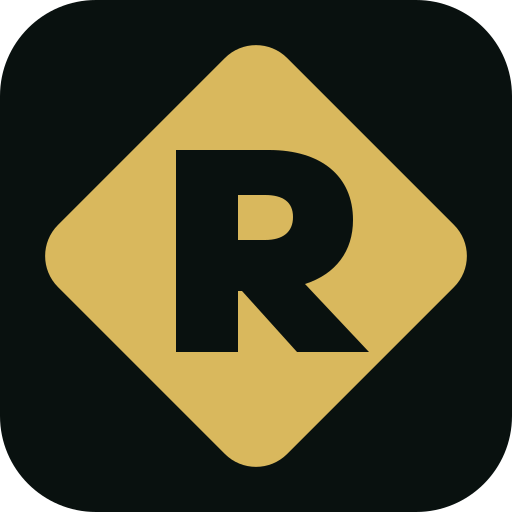
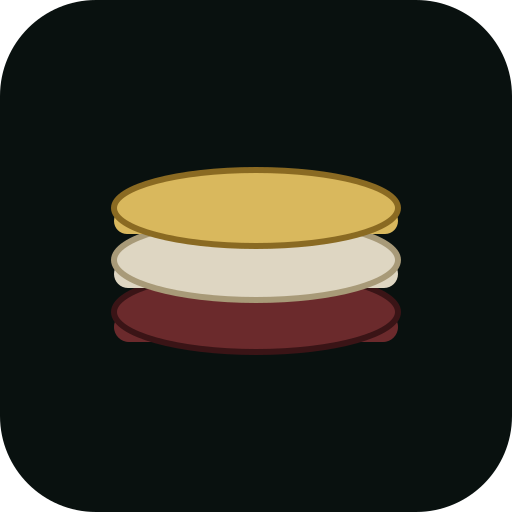
Rebrand River Room to StackChips for the www.stackchips.app launch
Renames the product everywhere it's user-facing: page titles, the
account-entry and in-app headers, the manifest, legal document text,
Stripe-facing notices, and doc comments. Replaces the diamond "R"
monogram (a bare CSS/JSX letter, not the favicon file) with "S" in the
four places it appeared -- app header, account-entry mark, admin brand
mark, and the face-down card-back emblem.

New icon.svg: a three-tier poker-chip stack in the existing brand
palette, replacing the old card-suit glyph. Regenerated icon-192.png,
icon-512.png, and apple-icon.png from it.

lib/auth/oauth-redirect.ts's PRODUCTION_SITE_ORIGIN now points at
https://www.stackchips.app -- the domain and Supabase site_url/
allow-list were already configured by the time this landed, confirmed
live before this change shipped.

Internal-only identifiers (river_session cookie name, the table-manager
module's file/function names) are deliberately untouched -- renaming
those is pure churn with no user-facing effect, and the cookie name
specifically would invalidate every existing session.

diff --git a/lib/auth/oauth-redirect.test.ts b/lib/auth/oauth-redirect.test.ts
@@ -9,20 +9,20 @@ describe("oauthCallbackUrl", () => {
   it("uses the canonical production URL during server-side execution", () => {
     vi.stubEnv("NEXT_PUBLIC_SITE_URL", "https://vercel.app/");
 
-    expect(oauthSiteOrigin(undefined)).toBe("https://poker-navy-six.vercel.app");
+    expect(oauthSiteOrigin(undefined)).toBe("https://www.stackchips.app");
     expect(oauthCallbackUrl()).toBe(
-      "https://poker-navy-six.vercel.app/auth/callback",
+      "https://www.stackchips.app/auth/callback",
     );
   });
 
   it("pins deployed callbacks to the canonical production origin", () => {
     vi.stubEnv("NEXT_PUBLIC_SITE_URL", "https://wrong-host.example/");
 
-    expect(oauthSiteOrigin("https://poker-preview.vercel.app")).toBe(
-      "https://poker-navy-six.vercel.app",
+    expect(oauthSiteOrigin("https://preview.stackchips.app")).toBe(
+      "https://www.stackchips.app",
     );
-    expect(oauthCallbackUrl(oauthSiteOrigin("https://poker-preview.vercel.app"))).toBe(
-      "https://poker-navy-six.vercel.app/auth/callback",
+    expect(oauthCallbackUrl(oauthSiteOrigin("https://preview.stackchips.app"))).toBe(
+      "https://www.stackchips.app/auth/callback",
     );
   });
 
@@ -36,15 +36,15 @@ describe("oauthCallbackUrl", () => {
   it("does not let a stale production environment value force localhost", () => {
     vi.stubEnv("NEXT_PUBLIC_SITE_URL", "http://localhost:3000");
 
-    expect(oauthSiteOrigin("https://poker-navy-six.vercel.app")).toBe(
-      "https://poker-navy-six.vercel.app",
+    expect(oauthSiteOrigin("https://www.stackchips.app")).toBe(
+      "https://www.stackchips.app",
     );
-    expect(oauthSiteOrigin(undefined)).toBe("https://poker-navy-six.vercel.app");
+    expect(oauthSiteOrigin(undefined)).toBe("https://www.stackchips.app");
   });
 
   it("never carries a poker route or query into the OAuth callback", () => {
-    expect(oauthCallbackUrl("https://poker-navy-six.vercel.app/table?code=RIVER")).toBe(
-      "https://poker-navy-six.vercel.app/auth/callback",
+    expect(oauthCallbackUrl("https://www.stackchips.app/table?code=RIVER")).toBe(
+      "https://www.stackchips.app/auth/callback",
     );
   });
 

diff --git a/lib/legal/documents.ts b/lib/legal/documents.ts
@@ -39,9 +39,9 @@ export const LEGAL_DOCUMENTS: Record<LegalDocumentSlug, LegalDocument> = {
     version: 1,
     title: "Terms of Service",
     body: [
-      "River Room is a free-to-play social poker game played with Gold, an in-app entertainment currency. Nothing in River Room is real-money gambling: no hand you play, and no amount of Gold you hold, wins, buys, or can be exchanged for real money, cryptocurrency, or any prize of monetary value.",
+      "StackChips is a free-to-play social poker game played with Gold, an in-app entertainment currency. Nothing in StackChips is real-money gambling: no hand you play, and no amount of Gold you hold, wins, buys, or can be exchanged for real money, cryptocurrency, or any prize of monetary value.",
       "You must be at least 18 years old, or the age of majority where you live if that is higher, to play. By continuing you confirm you meet that requirement.",
-      "Your Gold balance, table history, and cosmetics belong to your River Room profile and have no value outside the app. We can suspend or terminate a profile that cheats, abuses other players, colludes, or attempts to convert Gold into anything of real-world value.",
+      "Your Gold balance, table history, and cosmetics belong to your StackChips profile and have no value outside the app. We can suspend or terminate a profile that cheats, abuses other players, colludes, or attempts to convert Gold into anything of real-world value.",
       "We may change these Terms as the game changes. Continuing to play after a change takes effect means you accept the current version; if you were asked to accept again, it is because something material changed.",
     ],
   },

diff --git a/components/poker-app.tsx b/components/poker-app.tsx
@@ -720,7 +720,7 @@ export function PokerApp() {
       const { error: signInError } = await client.auth.signInWithOAuth({
         provider: "google",
         options: {
-          // Production is pinned to the canonical River Room origin; a
+          // Production is pinned to the canonical StackChips origin; a
           // loopback callback is used only when this browser is genuinely
           // running the local app. The dedicated path also keeps the OAuth
           // `code` parameter separate from poker room invite codes.
@@ -849,8 +849,8 @@ export function PokerApp() {
       {!game && (
         <header className="lobby-header">
           <div className="wordmark">
-            <span className="mark">R</span>
-            <span>River Room<small>NO LIMIT HOLD’EM</small></span>
+            <span className="mark">S</span>
+            <span>StackChips<small>NO LIMIT HOLD’EM</small></span>
           </div>
           <div className="header-actions">
             <div className="header-status">No-limit Hold’em · 6-max</div>

diff --git a/lib/auth/oauth-redirect.ts b/lib/auth/oauth-redirect.ts
@@ -1,5 +1,5 @@
 export const OAUTH_CALLBACK_PATH = "/auth/callback";
-export const PRODUCTION_SITE_ORIGIN = "https://poker-navy-six.vercel.app";
+export const PRODUCTION_SITE_ORIGIN = "https://www.stackchips.app";
 
 function normalizedHttpOrigin(origin: string): string {
   const parsedOrigin = new URL(origin);
@@ -19,7 +19,7 @@ function isLocalDevelopmentOrigin(origin: string): boolean {
 }
 
 /**
- * Production sign-in must always return to the canonical River Room host.
+ * Production sign-in must always return to the canonical StackChips host.
  *
  * A stale/mistyped Vercel NEXT_PUBLIC_SITE_URL must never be allowed to send a
  * production OAuth exchange to localhost. Localhost remains supported only

diff --git a/app/auth/callback/route.ts b/app/auth/callback/route.ts
@@ -66,7 +66,7 @@ export async function GET(request: NextRequest) {
     // exchangeCodeForSession already wrote the Supabase auth cookies via
     // cookies() (next/headers), which a Route Handler applies to the
     // response regardless of which NextResponse instance is returned.
-    // Only River Room's own gameplay-identity cookie needs adding here.
+    // Only StackChips' own gameplay-identity cookie needs adding here.
     const result = await linkAuthenticatedUser(data.session.user.id, request);
     return withRequestSessionCookie(request, NextResponse.redirect(origin), result.token);
   } catch (linkError) {

diff --git a/lib/supabase/browser-client.ts b/lib/supabase/browser-client.ts
@@ -27,7 +27,7 @@ export function setRememberAuthSession(remember: boolean): void {
  * client-side PKCE verifier living in origin-scoped storage that a
  * redirect, a duplicate effect run, or a wrong storage backend could lose.
  *
- * "Stay signed in" is enforced by River Room's own river_session cookie
+ * "Stay signed in" is enforced by StackChips' own river_session cookie
  * (lib/server/session.ts), which is what actually gates gameplay identity.
  * This Supabase cookie is left on the library's default lifetime rather than
  * switched per-toggle -- at most that means a browser Supabase still

diff --git a/components/table/poker-table.tsx b/components/table/poker-table.tsx
@@ -349,8 +349,8 @@ export function PokerTable({
     <main className="game-shell">
       <header className="game-header">
         <button className="wordmark" onClick={onLeave} aria-label="Leave table">
-          <span className="mark">R</span>
-          <span>River Room<small>NO LIMIT HOLD’EM</small></span>
+          <span className="mark">S</span>
+          <span>StackChips<small>NO LIMIT HOLD’EM</small></span>
         </button>
         <div className="table-meta">
           <span>

diff --git a/app/api/admin/stripe/test-checkout/route.ts b/app/api/admin/stripe/test-checkout/route.ts
@@ -11,7 +11,7 @@ const bodySchema = z.object({
   tierKey: z.string().min(1),
 });
 
-const noCashValueNotice = "River Room Gold is virtual entertainment currency with no cash value and cannot be redeemed, exchanged, or withdrawn for real money.";
+const noCashValueNotice = "StackChips Gold is virtual entertainment currency with no cash value and cannot be redeemed, exchanged, or withdrawn for real money.";
 
 /**
  * The only way a Stripe test-mode Checkout Session ever gets created for

diff --git a/app/layout.tsx b/app/layout.tsx
@@ -2,13 +2,13 @@ import type { Metadata, Viewport } from "next";
 import "./globals.css";
 
 export const metadata: Metadata = {
-  title: "River Room — Texas Hold’em",
+  title: "StackChips — Texas Hold’em",
   description: "A server-authoritative Texas Hold’em table powered by Supabase.",
   manifest: "/manifest.webmanifest",
   appleWebApp: {
     capable: true,
     statusBarStyle: "black-translucent",
-    title: "River Room",
+    title: "StackChips",
   },
 };
 

diff --git a/lib/server/table-manager/table-manager.ts b/lib/server/table-manager/table-manager.ts
@@ -611,7 +611,7 @@ export class TableManager<TState, TAction, TPublicState> {
 
   private assertSixMaxLayout(): void {
     if (this.seats.length !== MAX_SEATS) {
-      throw new Error("A River Room table must contain exactly six seats.");
+      throw new Error("A StackChips table must contain exactly six seats.");
     }
     const ids = this.seats.map((seat) => seat.seatId);
     if (new Set(ids).size !== MAX_SEATS || ids.some((id) => id < 1 || id > MAX_SEATS)) {

diff --git a/lib/server/link-account.ts b/lib/server/link-account.ts
@@ -6,7 +6,7 @@ import { readOrCreateSessionToken, withRequestSessionCookie } from "@/lib/server
 import type { PlayerProfile } from "@/lib/profile/types";
 
 /**
- * Turns an authenticated Supabase user into a River Room profile.
+ * Turns an authenticated Supabase user into a StackChips profile.
  *
  * Shared by the OAuth callback route handler and the email/password link
  * route: both already know the caller is who they say they are (the

diff --git a/app/manifest.ts b/app/manifest.ts
@@ -2,8 +2,8 @@ import type { MetadataRoute } from "next";
 
 export default function manifest(): MetadataRoute.Manifest {
   return {
-    name: "River Room - Texas Hold’em",
-    short_name: "River Room",
+    name: "StackChips - Texas Hold’em",
+    short_name: "StackChips",
     description: "A server-authoritative six-max Texas Hold’em table.",
     start_url: "/",
     display: "standalone",
